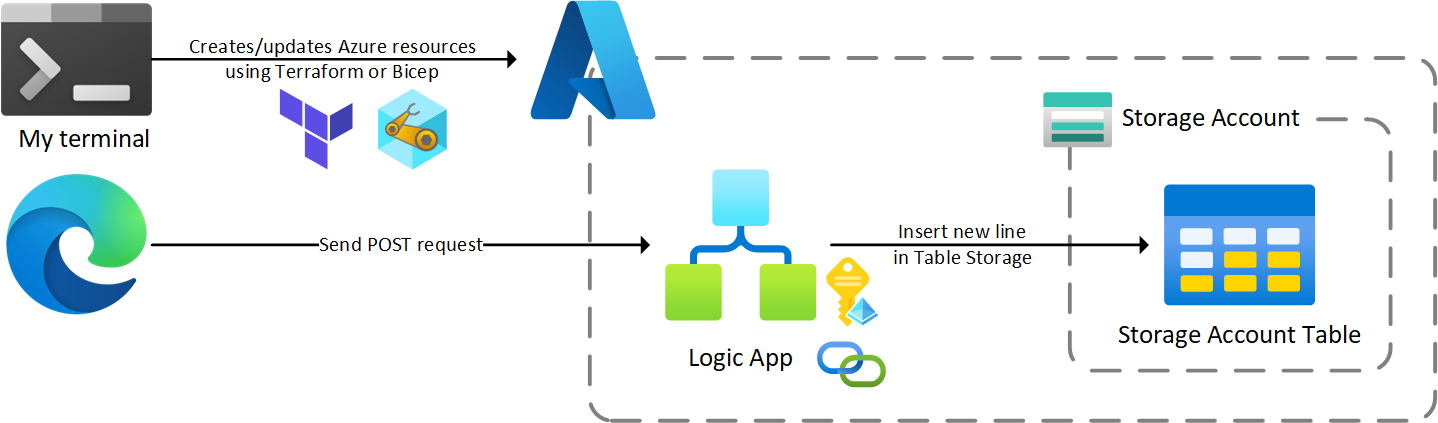
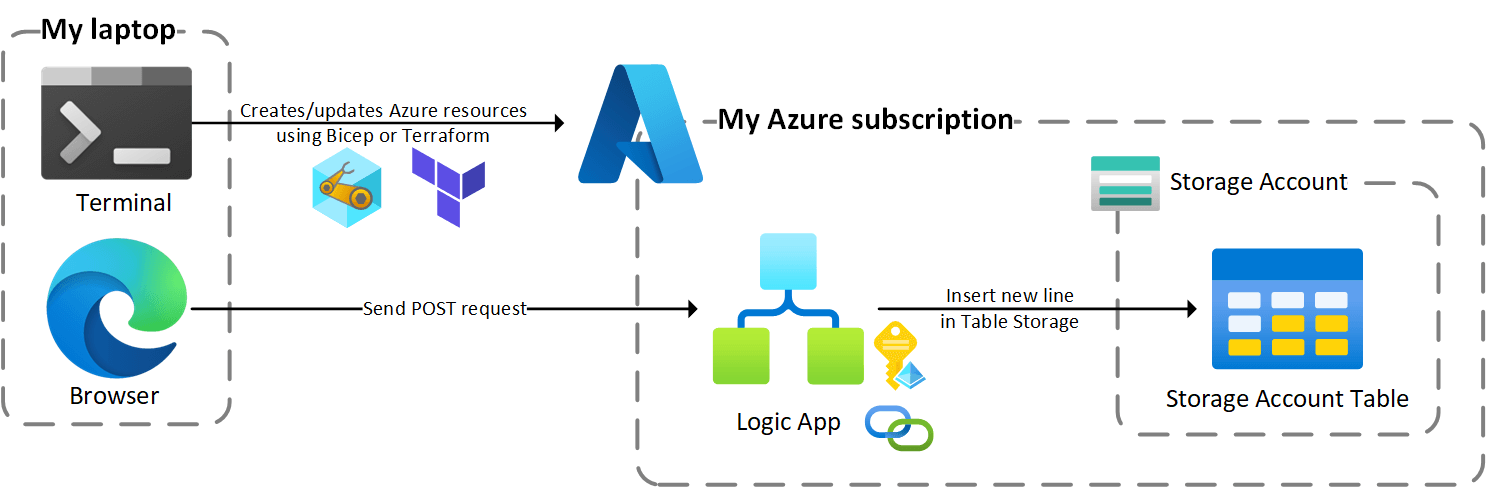
feat: Publish Logic Apps post

diff --git a/_posts/2022-08-26-deploy-logic-apps-as-code.md b/_posts/2022-08-26-deploy-logic-apps-as-code.md
@@ -2,6 +2,7 @@
 title: "Deploy Azure Logic Apps as code"
 tags: [azure, bicep, terraform, logic-apps]
 img_path: /assets/img/logic-apps-iac
+date: 2022-08-26 07:30:00
 ---
 
 I have been playing with Azure Logic Apps on my own lately, and was wondering how these can be managed by teams in an enterprise environment, especially how can we automate the provisioning and deployment of Logic Apps.  
@@ -65,7 +66,7 @@ resource storageTable 'Microsoft.Storage/storageAccounts/tableServices/tables@20
 
 ## Creating the API Connection
 
-To interact with a resource or a service, a Logic App requires a *service connection*, which is basically a wrapper around an API, the Azure table storage API in our case.  
+To interact with a resource or a service, a Logic App requires an *API connection*, which is basically a wrapper around an API, the Azure table storage API in our case.  
 This is one of the key steps of this post, as the service connection contains the way the Logic App authenticates to the Storage Account. I could have used an account key but decided to use a *managed identity* to follow best practices ([this post](https://medium.com/medialesson/deploying-azure-logic-apps-managed-identity-with-bicep-e1354f185e4d) helped me a lot to make this part work).  
 
 Long story short, the trick with the Managed Identity is to use the `2018-07-01-preview` API version of the `Microsoft.Web/connections` resource type. Bicep will show a warning because of this but it's currently the only way to make it work:
@@ -93,8 +94,8 @@ resource tableStorageConnection 'Microsoft.Web/connections@2018-07-01-preview' =
 ### Why are Logic Apps *different* ?
 Before jumping into some more IaC code, let's talk about how teams could manage (develop, version and deploy) Logic Apps and why they are different from other Azure resources like Web Apps or Azure Functions.  
 Functions and Web Apps are code-first services whose deployment require two steps:
-- A provisioning step to create the resource in Azure (using IaC, the CLI, the portal, ...)
-- A deployment step to push business code to the resource (using a CD pipeline, VS Code,  a git push, ...)
+1. A provisioning step to create the resource in Azure (using IaC, the CLI, the portal, ...)
+2. A deployment step to push business code to the resource (using a CD pipeline, VS Code,  a git push, ...)
 
 Basically an empty shell is created, and then content is sent into the shell. Both steps can be achieved by different teams using different technologies.  
 Also deploying a new version of the business code does not reflect any change on the infrastructure.
@@ -105,10 +106,12 @@ In other words, the "code" or the "logic" of the Logic Apps cannot be deployed s
 
 ### Let's develop/deploy this Logic App for good now !
 So how can we develop Logic Apps from the GUI and automate their deployment using IaC ?  
-Here is what I've got in the Azure portal once I've finished developing my Logic App:
+Here is what I've got in the Azure portal once I've finished "developing" my Logic App:
 ![Logic App workflow in Azure portal](/02-workflow-portal.png) _A similar experience is available using the VS Code extension_  
 Switching to the *Code view* allows me to see my workflow in JSON. From there I can copy the `definition` element and save its content a [file](https://github.com/xaviermignot/deploy-logic-apps-with-iac/blob/81f3560869aaf70bd945132e63b7034833216403/logic_apps/insertIntoTableStorage.json) in my repo.  
-Why not taking *all* the content of the code view ? Because the `parameters` element contains the resource id of the API connection (with the subscription id and resource group name) and the Storage Account name, and I don't want these kind of environment-related information to end up in my git repository.
+
+> Why not taking *all* the content of the code view ? Because the `parameters` element contains the resource id of the API connection (with the subscription id and resource group name) and the Storage Account name, and I don't want these kind of environment-related information to end up in my git repository.
+{: .prompt-info }  
  
 Now that my logic is saved (and versioned) alongside my IaC code, I can use it in the `definition` property of my Logic App workflow (using the `loadJsonContent` builtin function):
 ```
